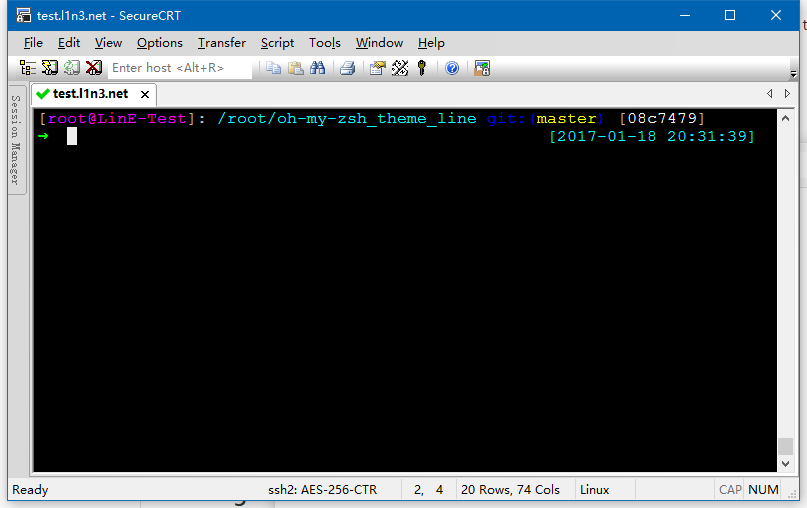
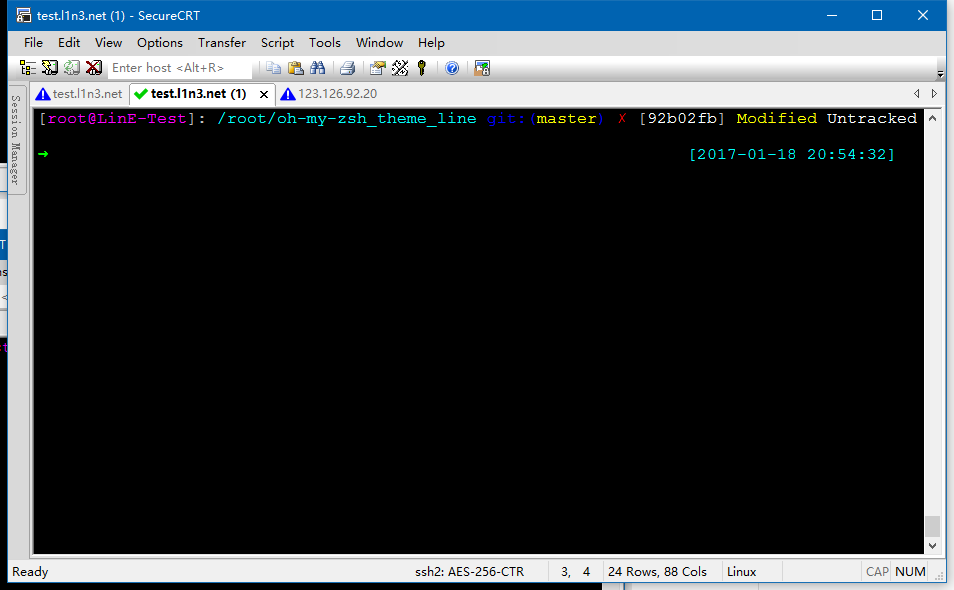
修改了部分说明

Changed region(s): [[0.0, 0.0, 1.0, 1.0]]

diff --git a/README.md b/README.md
@@ -1,42 +1,53 @@
-##Install
-一条命令搞定 oh-my-zsh
+#Install
+一条命令搞定 oh-my-zsh 的安装
 
-###基于wget
+##基于wget方式安装
 ```
 sh -c "$(wget https://raw.githubusercontent.com/yw9381/oh-my-zsh_theme_line/master/install_zsh.sh -O -)"
 ```
 
-###基于curl
+##基于curl方式安装
 ```
 sh -c "$(curl -fsSL https://raw.githubusercontent.com/yw9381/oh-my-zsh_theme_line/master/install_zsh.sh)"
 ```
 
-##如何设置
-修改家目录下.zshrc这个文件(```vim ~/.zshrc```)，将
+注意：安装oh-my-zsh前请先保证已经安装了git及zsh  
+如果你已经安装过了oh-my-zsh，请直接下载本主题启用即可
+```
+wget https://raw.githubusercontent.com/yw9381/oh-my-zsh_theme_line/master/line.zsh-theme -O ~/.oh-my-zsh/themes/line.zsh-theme
+```
+#如何启用本主题
+修改家目录下.zshrc(```vim ~/.zshrc```)
 ```
 ZSH_THEME="xxxx"
-```
-
 改为
-```
 ZSH_THEME="line"
 ```
-即可
-##信息说明
-###第一行
+
+#信息说明
+本主题共分为两行，其中第一行为信息行，第二行为输入行  
+##第一行
 **紫色字**部分表示的是当前的用户名及主机名  
 **蓝色字**部分表示的是当前工作路径  
-如果该目录是一个git管理的工作目录，则显示git信息(如图2)  
+如果该目录是一个git管理的工作目录，则显示git信息，依次为当前分支，最后一次的commit id，如果该目录有文件变动，则会显示出进行了哪种变动(如图2)  
 如果当前终端是一个以screen启动的虚拟终端，则显示出来screen信息(如图3)  
-###第二行  
+##第二行  
 开始是用户输入光标  
-末尾为当前时间
-##相关截图
-主界面（图1）  
+末尾为当前时间  
+当用户输入的字符超过该行的时候，时间这部分会自动隐藏(如图4)  
+##其他
+如果上条命令执行失败(返回值不等于0)，则光标以红色提示，如果是正确执行的命令(返回值等于0)，光标以绿色提示(如图5)  
+
+#相关截图
+主界面(图1)  
 ![images/1.png](images/1.png)  
-git信息查看（图2）  
+git信息查看(图2)  
 ![images/2.png](images/2.png)  
-screen信息（图3）  
-![images/3.png](images/3.png)
+screen信息(图3)  
+![images/3.png](images/3.png)  
+时间自动隐藏(图4)  
+![images/4.png](images/4.png)  
+错误提示(图5)
+![images/5.png](images/5.png)
 
 
